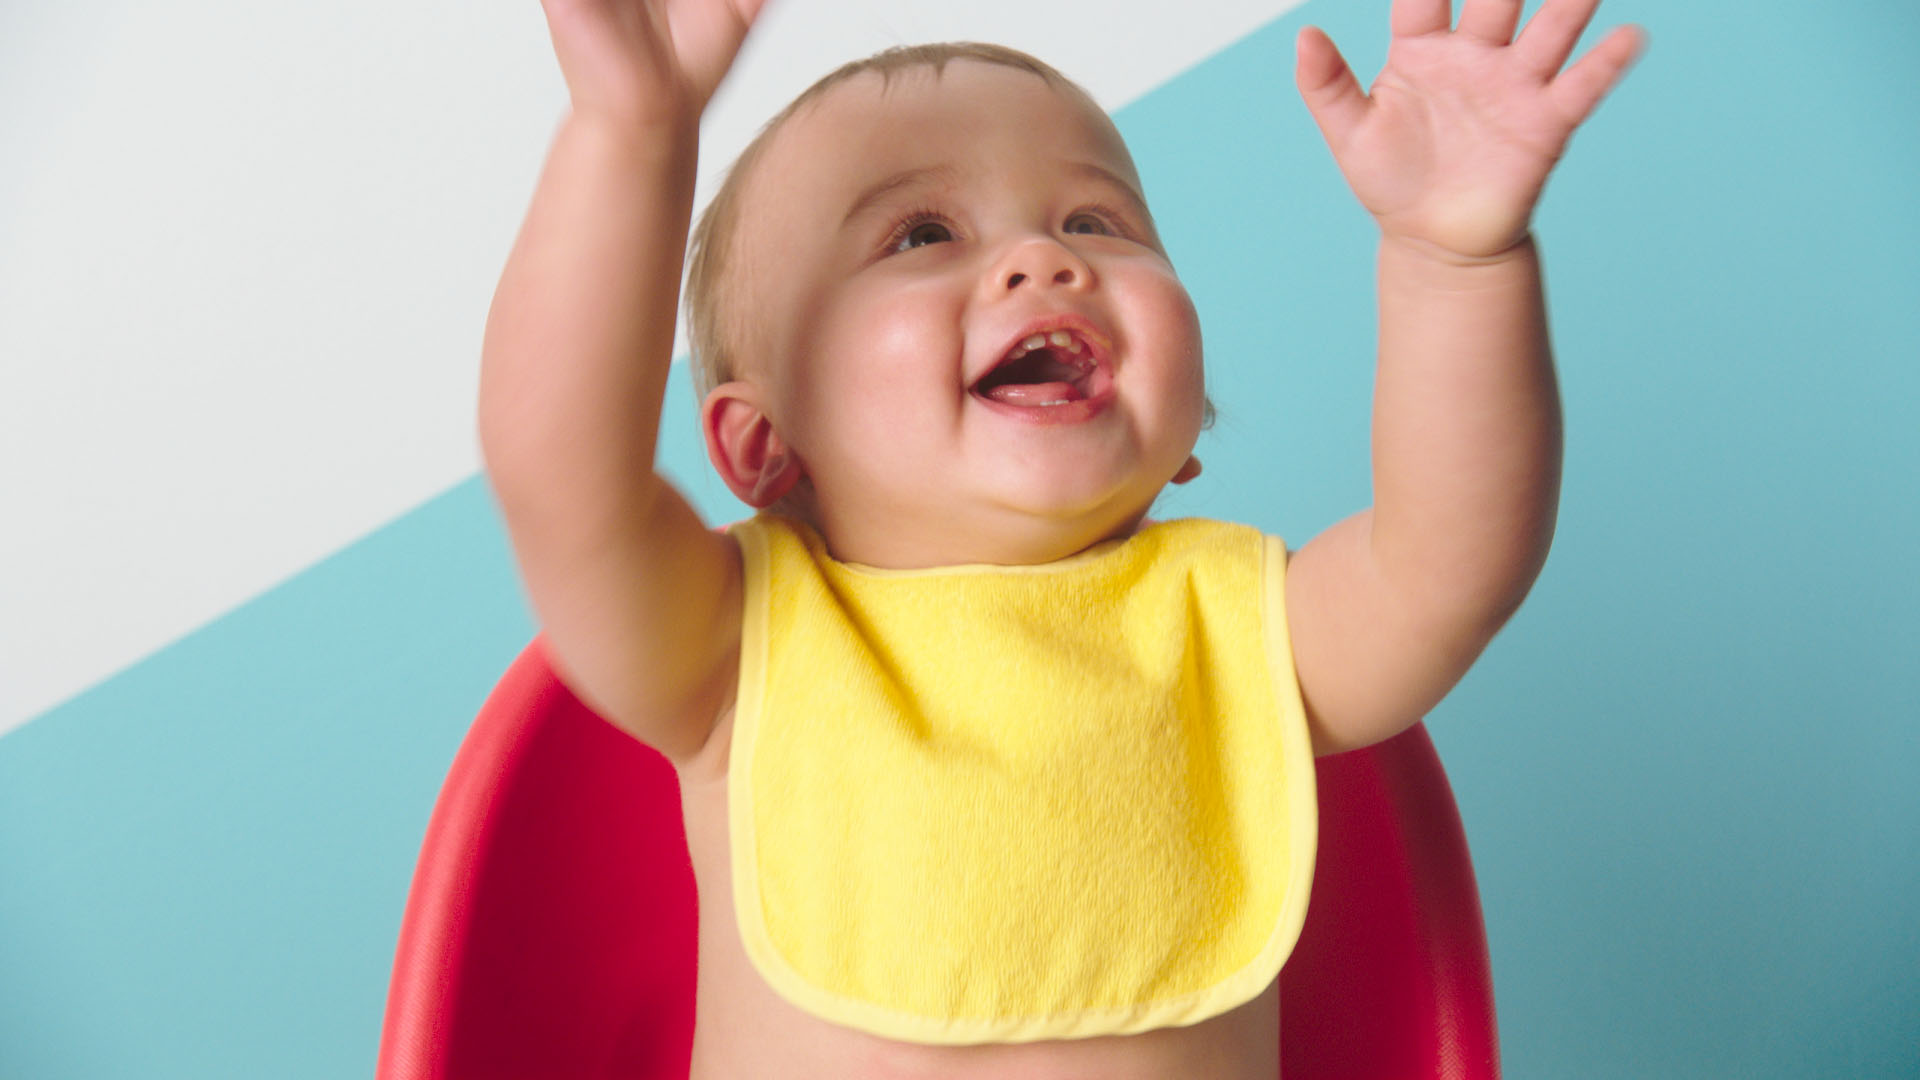
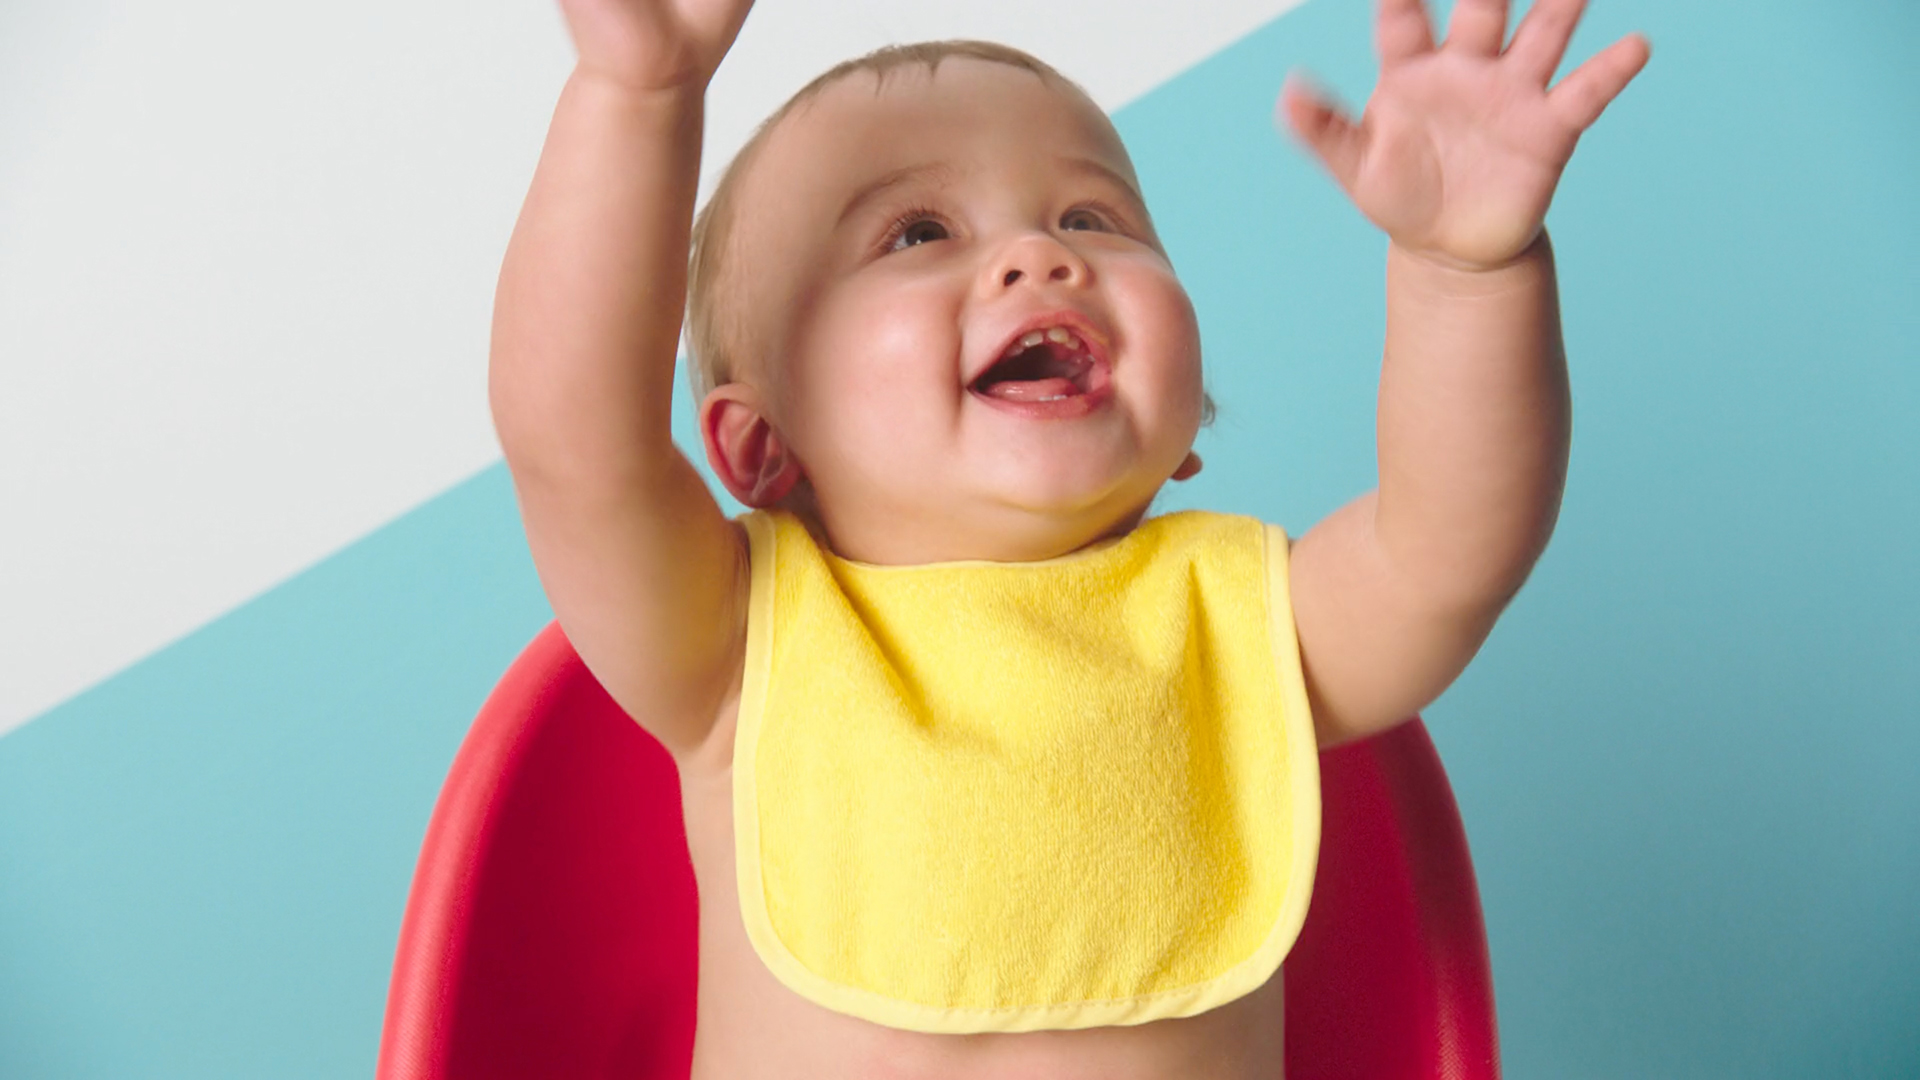
Image scaling for Español section.

diff --git a/src/index.html b/src/index.html
@@ -175,7 +175,22 @@
       <ul>
         <li>
           <a class="video" data-fancybox="espanol" href="https://vimeo.com/180381840">
-            <div class="thumbnail"><img src="./images/thumbnails/target-baby-itos.jpg" alt="Baby / Itos &bull; Target" /></div>
+            <picture class="thumbnail">
+              <source type="image/webp"
+                      media="(min-width: 768px)"
+                      srcset="./images/thumbnails/target-baby-itos.jpg?as=webp&width=624 624w,
+                              ./images/thumbnails/target-baby-itos.jpg?as=webp&width=1248 1248w,
+                              ./images/thumbnails/target-baby-itos.jpg?as=webp&width=1872 1872w">
+              <source type="image/webp"
+                      srcset="./images/thumbnails/target-baby-itos.jpg?as=webp&width=96 96w,
+                              ./images/thumbnails/target-baby-itos.jpg?as=webp&width=192 192w,
+                              ./images/thumbnails/target-baby-itos.jpg?as=webp&width=288 288w"
+                      sizes="96w">
+              <img src="./images/thumbnails/target-baby-itos.jpg?width=96"
+                   srcset="./images/thumbnails/target-baby-itos.jpg?width=192 192w,
+                           ./images/thumbnails/target-baby-itos.jpg?width=288 288w"
+                   alt="Baby / Itos &bull; Target">
+            </picture>
             <aside>
               <h4>Baby / Itos</h4>
               <h5>Target</h5>
@@ -185,7 +200,22 @@
         </li>
         <li>
           <a class="video" data-fancybox="espanol" href="https://vimeo.com/502345827">
-            <div class="thumbnail"><img src="./images/thumbnails/target-hhm-ada-ozzie.jpg" loading="lazy" alt="Hispanic Heritage Month / Ada + Ozzie &bull; Target" /></div>
+            <picture class="thumbnail">
+              <source type="image/webp"
+                      media="(min-width: 768px)"
+                      srcset="./images/thumbnails/target-hhm-ada-ozzie.jpg?as=webp&width=624 624w,
+                              ./images/thumbnails/target-hhm-ada-ozzie.jpg?as=webp&width=1248 1248w,
+                              ./images/thumbnails/target-hhm-ada-ozzie.jpg?as=webp&width=1872 1872w">
+              <source type="image/webp"
+                      srcset="./images/thumbnails/target-hhm-ada-ozzie.jpg?as=webp&width=96 96w,
+                              ./images/thumbnails/target-hhm-ada-ozzie.jpg?as=webp&width=192 192w,
+                              ./images/thumbnails/target-hhm-ada-ozzie.jpg?as=webp&width=288 288w"
+                      sizes="96w">
+              <img src="./images/thumbnails/target-hhm-ada-ozzie.jpg?width=96"
+                   srcset="./images/thumbnails/target-hhm-ada-ozzie.jpg?width=192 192w,
+                           ./images/thumbnails/target-hhm-ada-ozzie.jpg?width=288 288w"
+                   alt="Hispanic Heritage Month / Ada + Ozzie &bull; Target">
+            </picture>
             <aside>
               <h4>Hispanic Heritage Month / Ada + Ozzie</h4>
               <h5>Target</h5>
@@ -195,7 +225,22 @@
         </li>
         <li>
           <a class="video" data-fancybox="espanol" href="https://vimeo.com/118040374">
-            <div class="thumbnail"><img src="./images/thumbnails/boxtops-raul-de-molina.jpg" loading="lazy" alt="Raul de Molina &bull; Boxtops for Education" /></div>
+            <picture class="thumbnail">
+              <source type="image/webp"
+                      media="(min-width: 768px)"
+                      srcset="./images/thumbnails/boxtops-raul-de-molina.jpg?as=webp&width=624 624w,
+                              ./images/thumbnails/boxtops-raul-de-molina.jpg?as=webp&width=1248 1248w,
+                              ./images/thumbnails/boxtops-raul-de-molina.jpg?as=webp&width=1872 1872w">
+              <source type="image/webp"
+                      srcset="./images/thumbnails/boxtops-raul-de-molina.jpg?as=webp&width=96 96w,
+                              ./images/thumbnails/boxtops-raul-de-molina.jpg?as=webp&width=192 192w,
+                              ./images/thumbnails/boxtops-raul-de-molina.jpg?as=webp&width=288 288w"
+                      sizes="96w">
+              <img src="./images/thumbnails/boxtops-raul-de-molina.jpg?width=96"
+                   srcset="./images/thumbnails/boxtops-raul-de-molina.jpg?width=192 192w,
+                           ./images/thumbnails/boxtops-raul-de-molina.jpg?width=288 288w"
+                   alt="Raul de Molina &bull; Boxtops for Education">
+            </picture>
             <aside>
               <h4>Raul de Molina</h4>
               <h5>Boxtops for Education &bull; 3Volts</h5>
@@ -205,7 +250,22 @@
         </li>
         <li>
           <a class="video" data-fancybox="espanol" href="https://vimeo.com/118044391">
-            <div class="thumbnail"><img src="./images/thumbnails/canela-creative-celebra-lo-rico.jpg" loading="lazy" alt="Celebra lo Rico Episode 1 &bull; Canela Creative" /></div>
+            <picture class="thumbnail">
+              <source type="image/webp"
+                      media="(min-width: 768px)"
+                      srcset="./images/thumbnails/canela-creative-celebra-lo-rico.jpg?as=webp&width=624 624w,
+                              ./images/thumbnails/canela-creative-celebra-lo-rico.jpg?as=webp&width=1248 1248w,
+                              ./images/thumbnails/canela-creative-celebra-lo-rico.jpg?as=webp&width=1872 1872w">
+              <source type="image/webp"
+                      srcset="./images/thumbnails/canela-creative-celebra-lo-rico.jpg?as=webp&width=96 96w,
+                              ./images/thumbnails/canela-creative-celebra-lo-rico.jpg?as=webp&width=192 192w,
+                              ./images/thumbnails/canela-creative-celebra-lo-rico.jpg?as=webp&width=288 288w"
+                      sizes="96w">
+              <img src="./images/thumbnails/canela-creative-celebra-lo-rico.jpg?width=96"
+                   srcset="./images/thumbnails/canela-creative-celebra-lo-rico.jpg?width=192 192w,
+                           ./images/thumbnails/canela-creative-celebra-lo-rico.jpg?width=288 288w"
+                   alt="Celebra lo Rico Episode 1 &bull; Canela Creative">
+            </picture>
             <aside>
               <h4>Celebra lo Rico Episode 1</h4>
               <h5>Canela Creative</h5>
@@ -215,7 +275,22 @@
         </li>
         <li>
           <a class="video" data-fancybox="espanol" href="https://vimeo.com/77731187">
-            <div class="thumbnail"><img src="./images/thumbnails/target-music-prince-royce.jpg" loading="lazy" alt="Target Music / Prince Royce &bull; Target" /></div>
+            <picture class="thumbnail">
+              <source type="image/webp"
+                      media="(min-width: 768px)"
+                      srcset="./images/thumbnails/target-music-prince-royce.jpg?as=webp&width=624 624w,
+                              ./images/thumbnails/target-music-prince-royce.jpg?as=webp&width=1248 1248w,
+                              ./images/thumbnails/target-music-prince-royce.jpg?as=webp&width=1872 1872w">
+              <source type="image/webp"
+                      srcset="./images/thumbnails/target-music-prince-royce.jpg?as=webp&width=96 96w,
+                              ./images/thumbnails/target-music-prince-royce.jpg?as=webp&width=192 192w,
+                              ./images/thumbnails/target-music-prince-royce.jpg?as=webp&width=288 288w"
+                      sizes="96w">
+              <img src="./images/thumbnails/target-music-prince-royce.jpg?width=96"
+                   srcset="./images/thumbnails/target-music-prince-royce.jpg?width=192 192w,
+                           ./images/thumbnails/target-music-prince-royce.jpg?width=288 288w"
+                   alt="Target Music / Prince Royce &bull; Target">
+            </picture>
             <aside>
               <h4>Music / Prince Royce</h4>
               <h5>Target &bull; Target Creative</h5>
